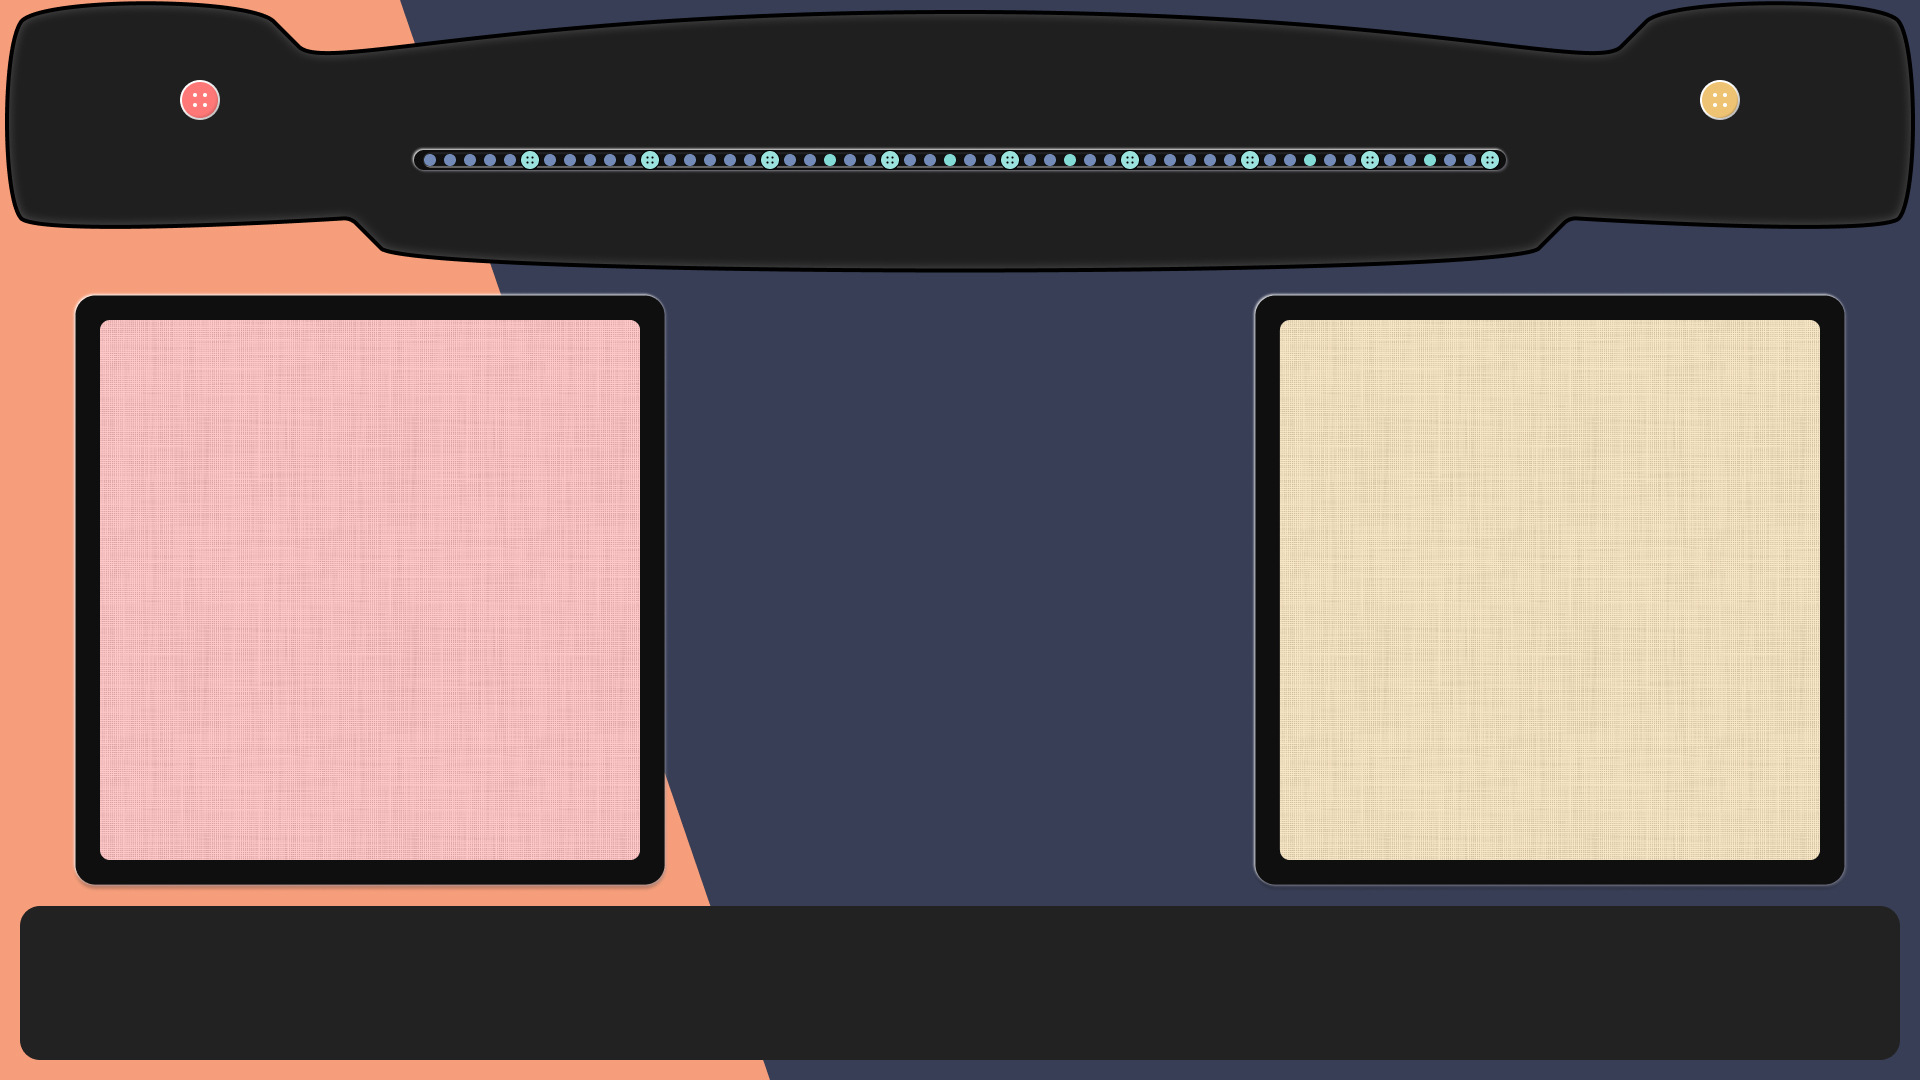
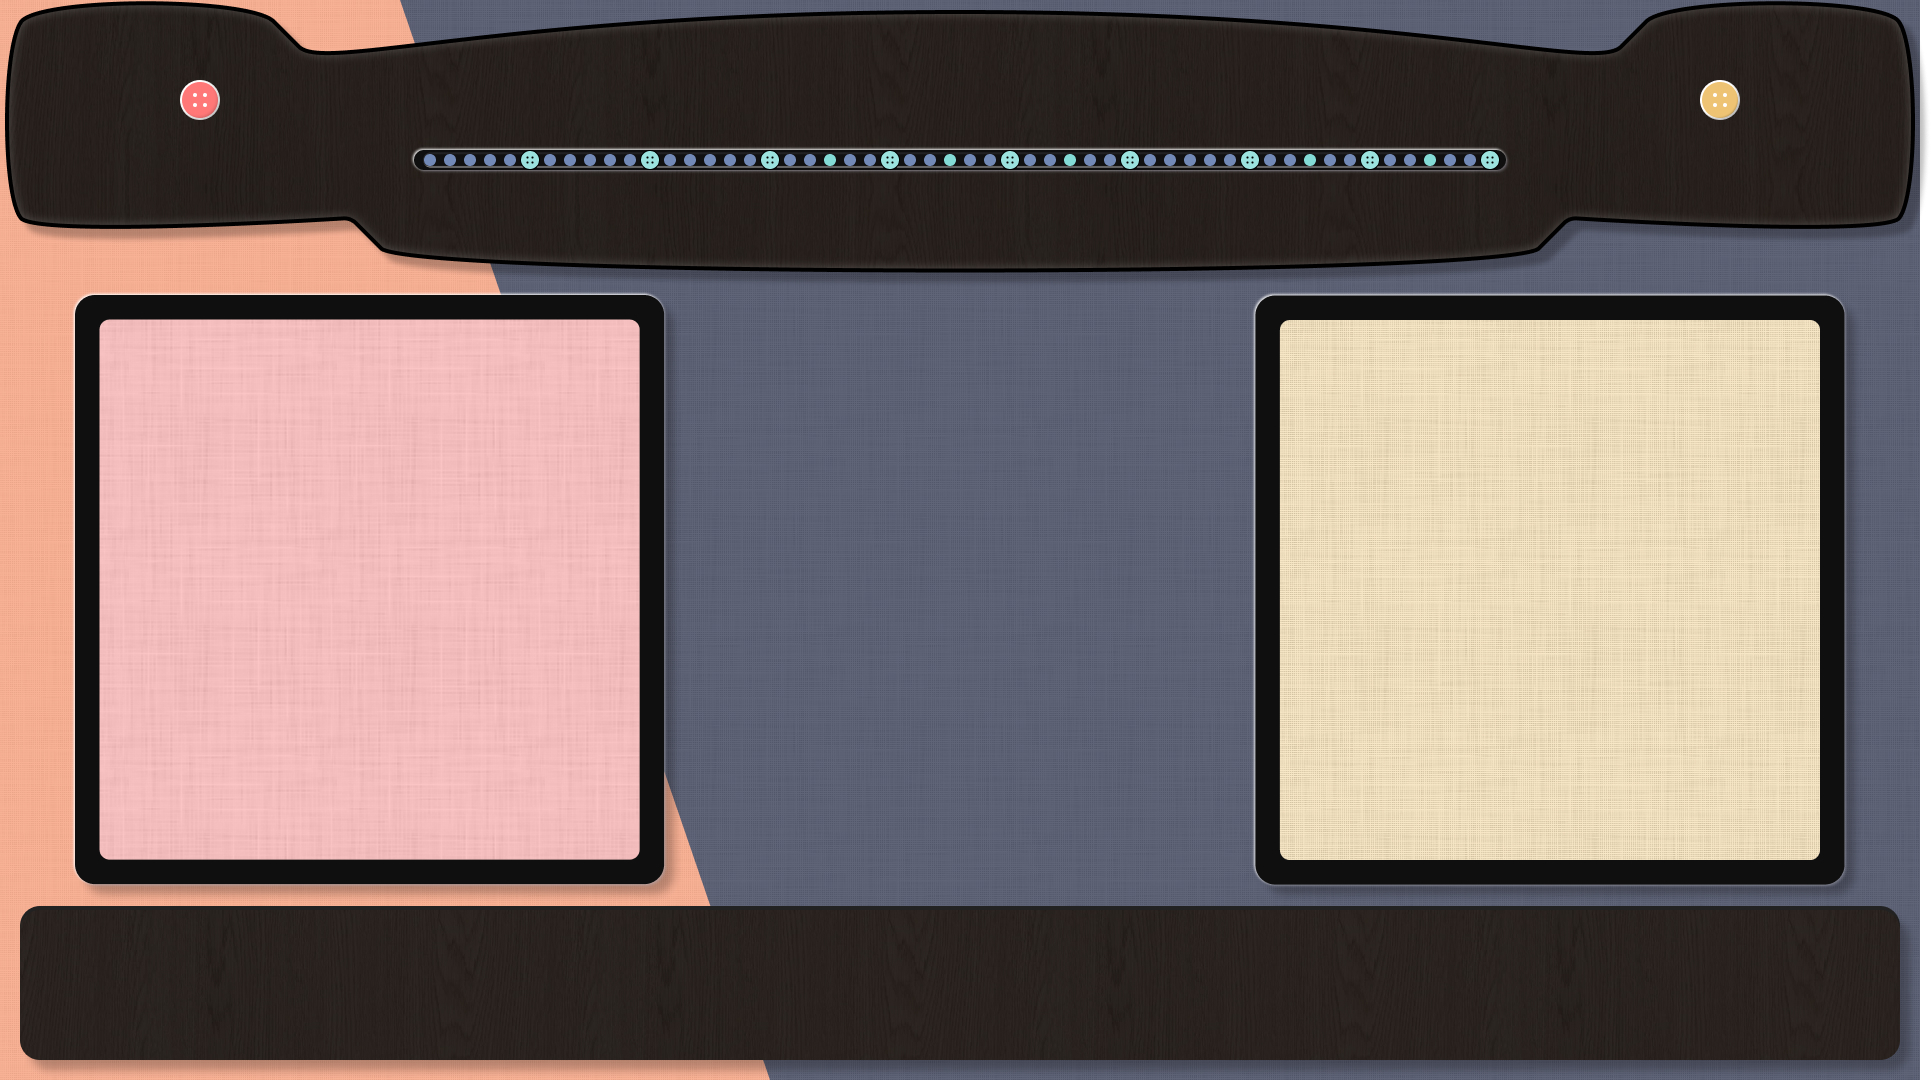
Wooden pattern added to board

diff --git a/src/main/kotlin/com/codingame/game/Interface.kt b/src/main/kotlin/com/codingame/game/Interface.kt
@@ -45,8 +45,8 @@ class Interface {
     fun acquireBonus(from: Double, playerId: Int) {
         g.commitEntityState(from, bonusButton)
         when(playerId) {
-            0 -> bonusButton?.setX(325)?.setY(60)
-            1 -> bonusButton?.setX(1920-325)?.setY(60)
+            0 -> bonusButton?.setX(325)?.setY(60)?.setScale(1.0)
+            1 -> bonusButton?.setX(1920-325)?.setY(60)?.setScale(1.0)
             else -> {}
         }
     }
@@ -184,8 +184,9 @@ class Interface {
             bonusButton = g.createSprite()
                 .setAnchor(0.5)
                 .setX(960)
-                .setY(50)
+                .setY(40)
                 .setZIndex(3)
+                .setScale(0.8)
                 .setImage("bonus.png")
         }
 

diff --git a/src/main/kotlin/com/codingame/game/BoardManager.kt b/src/main/kotlin/com/codingame/game/BoardManager.kt
@@ -134,10 +134,10 @@ class BoardManager(random: Random) {
 
         // check bonus
         if (players.none { it.bonusAchieved }) {
-            out@ for (startX in 0..2) {
-                u@ for (startY in 0..2) {
-                    for (windowX in startX..startX+6) {
-                        for (windowY in startY..startY+6) {
+            out@ for (startX in 0..4) {
+                u@ for (startY in 0..4) {
+                    for (windowX in startX..startX+4) {
+                        for (windowY in startY..startY+4) {
                             if (!player.board[windowX][windowY]) continue@u
                         }
                     }
